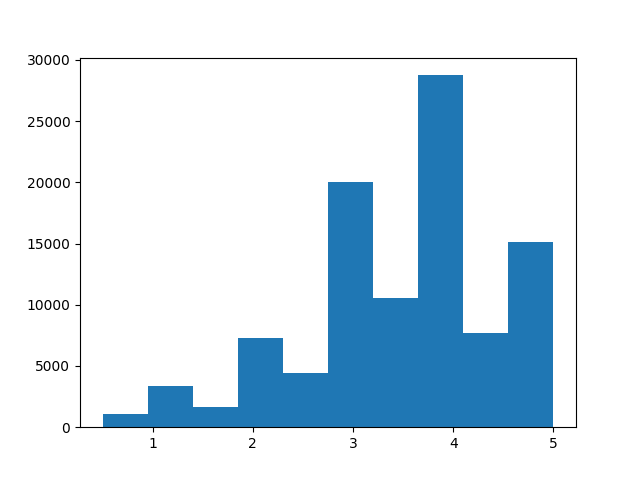
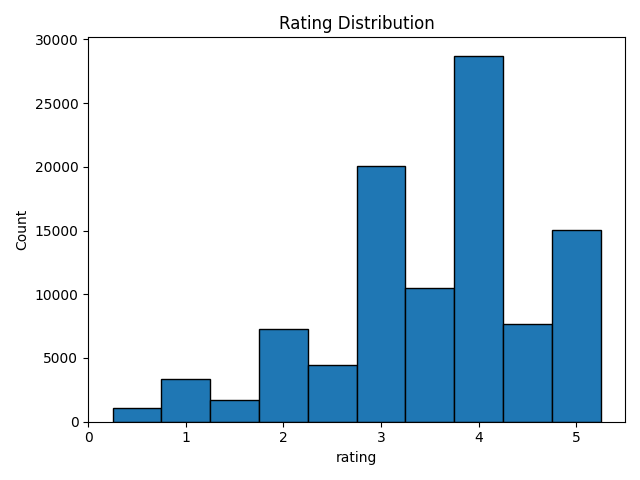
EDA Plot histogram

diff --git a/main.py b/main.py
@@ -70,7 +70,7 @@ GO.log_step("filter_valid_rows",
 rating_desc = r_full["rating"].describe()
 print("\nRating summary:\n", rating_desc)
 
-plot.save_histogram(r_full, "rate", "Rating Distribution", "Small_rate_histogram")
+plot.save_histogram(r_full, "rating", "Rating Distribution", "Small_rate_histogram")
 
 #rates = ratings.get_dataframe_col("rating")
 #plot.save_histogram(rates, "rate", "Small_rate_histogram")
